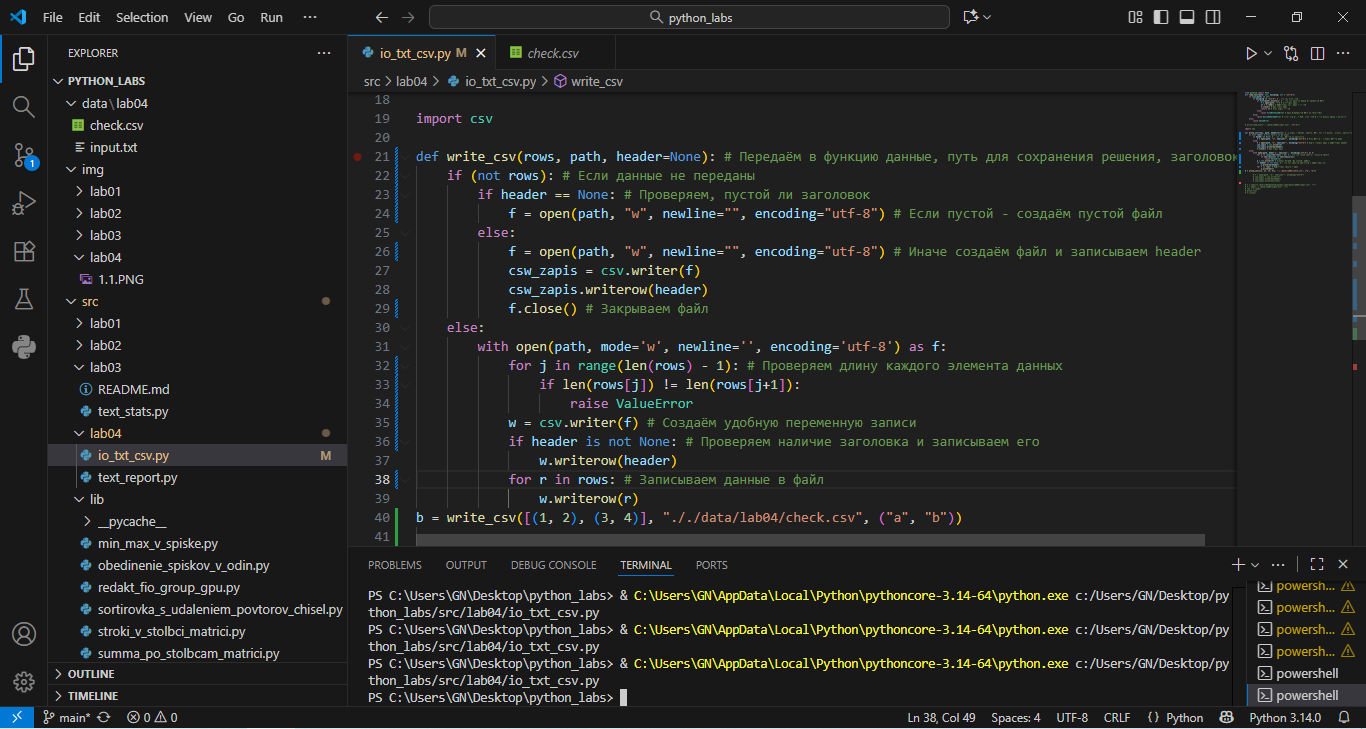
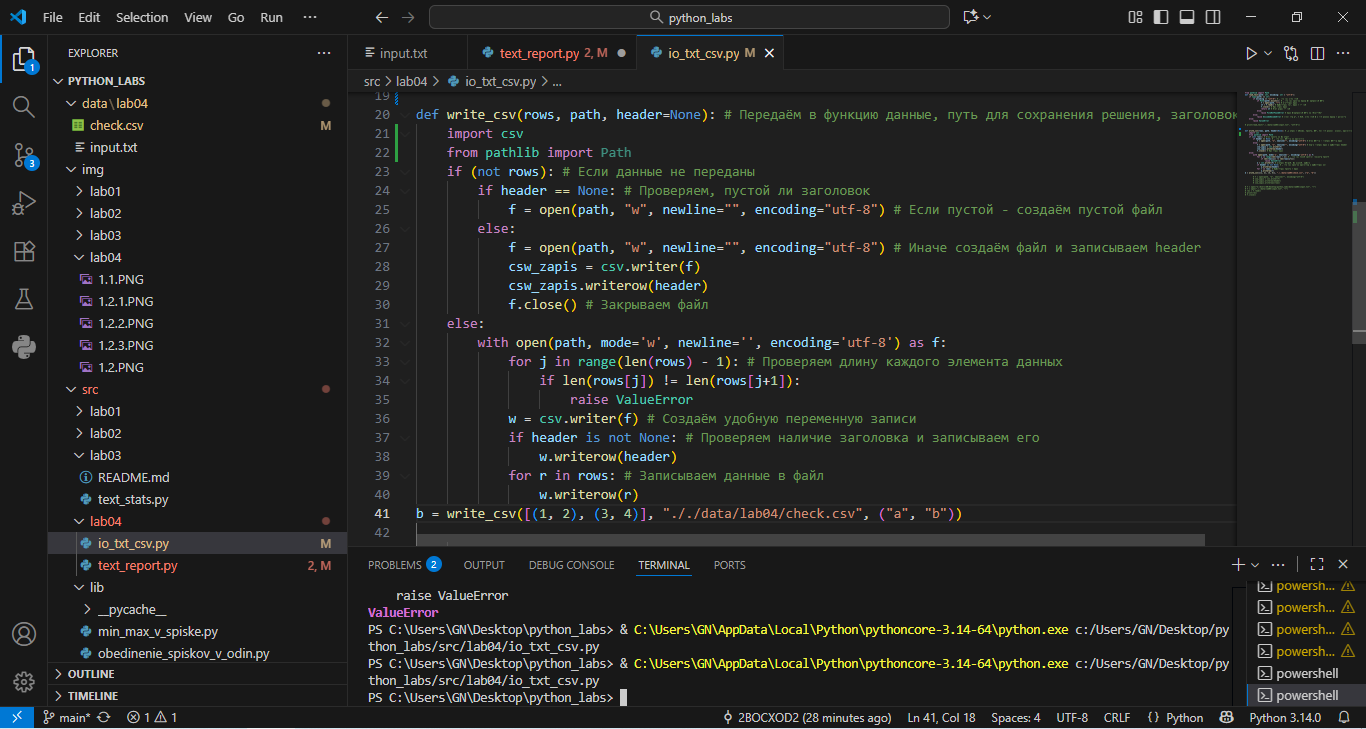
lab04 0201

diff --git a/src/lab04/text_report.py b/src/lab04/text_report.py
@@ -1,0 +1,36 @@
+import sys
+import os
+from pathlib import Path
+sys.path.insert(0, os.path.join(sys.path[0], '../lib')) # Добавили путь в папку с функциями
+from io_txt_csv import write_csv
+import text # normalize, tokenize, count_freq, top_n
+path_in = "././data/lab04/input.txt"
+if Path(path_in).exists(): # Проверяем наличие входного файла
+    # path = input()
+    with open(path_in, mode="r", newline='', encoding='utf-8') as f:
+        st = f.read()
+        top = 5
+        a = text.normalize(st, casefold=True, yo2e=True) # Форматируем текст
+        a = text.tokenize(a) # Убираем лишние символы
+        a = text.count_freq(a) # Формируем словарь
+        a = text.top_n(a, 5) # Формируем Топ
+        print(a)
+        z = []
+        for item in a:
+            z.append(item)
+        write_csv(z, "././data/lab04/report.csv", ("Слово", "Частота"))
+        print(f"Всего слов: {len(st.split())}")
+        print(f"Уникальных слов: {len(a)}")
+        print('Топ-5:')
+        #for x, y in a: # Выводим Топ
+        #    print(f"{x}: {y}")
+        print("______________________") # Выводим данные красиво
+        max_len = 5 # Минимальная ширина столбца "Слово"
+        for r, t in a: # Поиск максимальной длины слова
+            max_len = max(max_len, len(r))
+        print(f"Слово{" " * (max_len - 4)}| Частота") # Красиво выводим слово и частоту ровными столбцами
+        print("----------------------")
+        for x, y in a: # Выводим Топ красиво
+            print(f"{x}{" " * (max_len - len(x) + 1)}| {y}") #Красиво выводим слово и частоту ровными столбцами
+else:
+    raise FileNotFoundError # Если файла нет - ошибка

diff --git a/src/lab04/io_txt_csv.py b/src/lab04/io_txt_csv.py
@@ -16,9 +16,10 @@ def read_text(path: str, encoding: str = "utf-8"):
 
 # print(read_text("././data/lab04/input.txt", "utf-8"))
 
-import csv
-from pathlib import Path
+
 def write_csv(rows, path, header=None): # Передаём в функцию данные, путь для сохранения решения, заголовок
+    import csv
+    from pathlib import Path
     if (not rows): # Если данные не переданы
         if header == None: # Проверяем, пустой ли заголовок
             f = open(path, "w", newline="", encoding="utf-8") # Если пустой - создаём пустой файл
